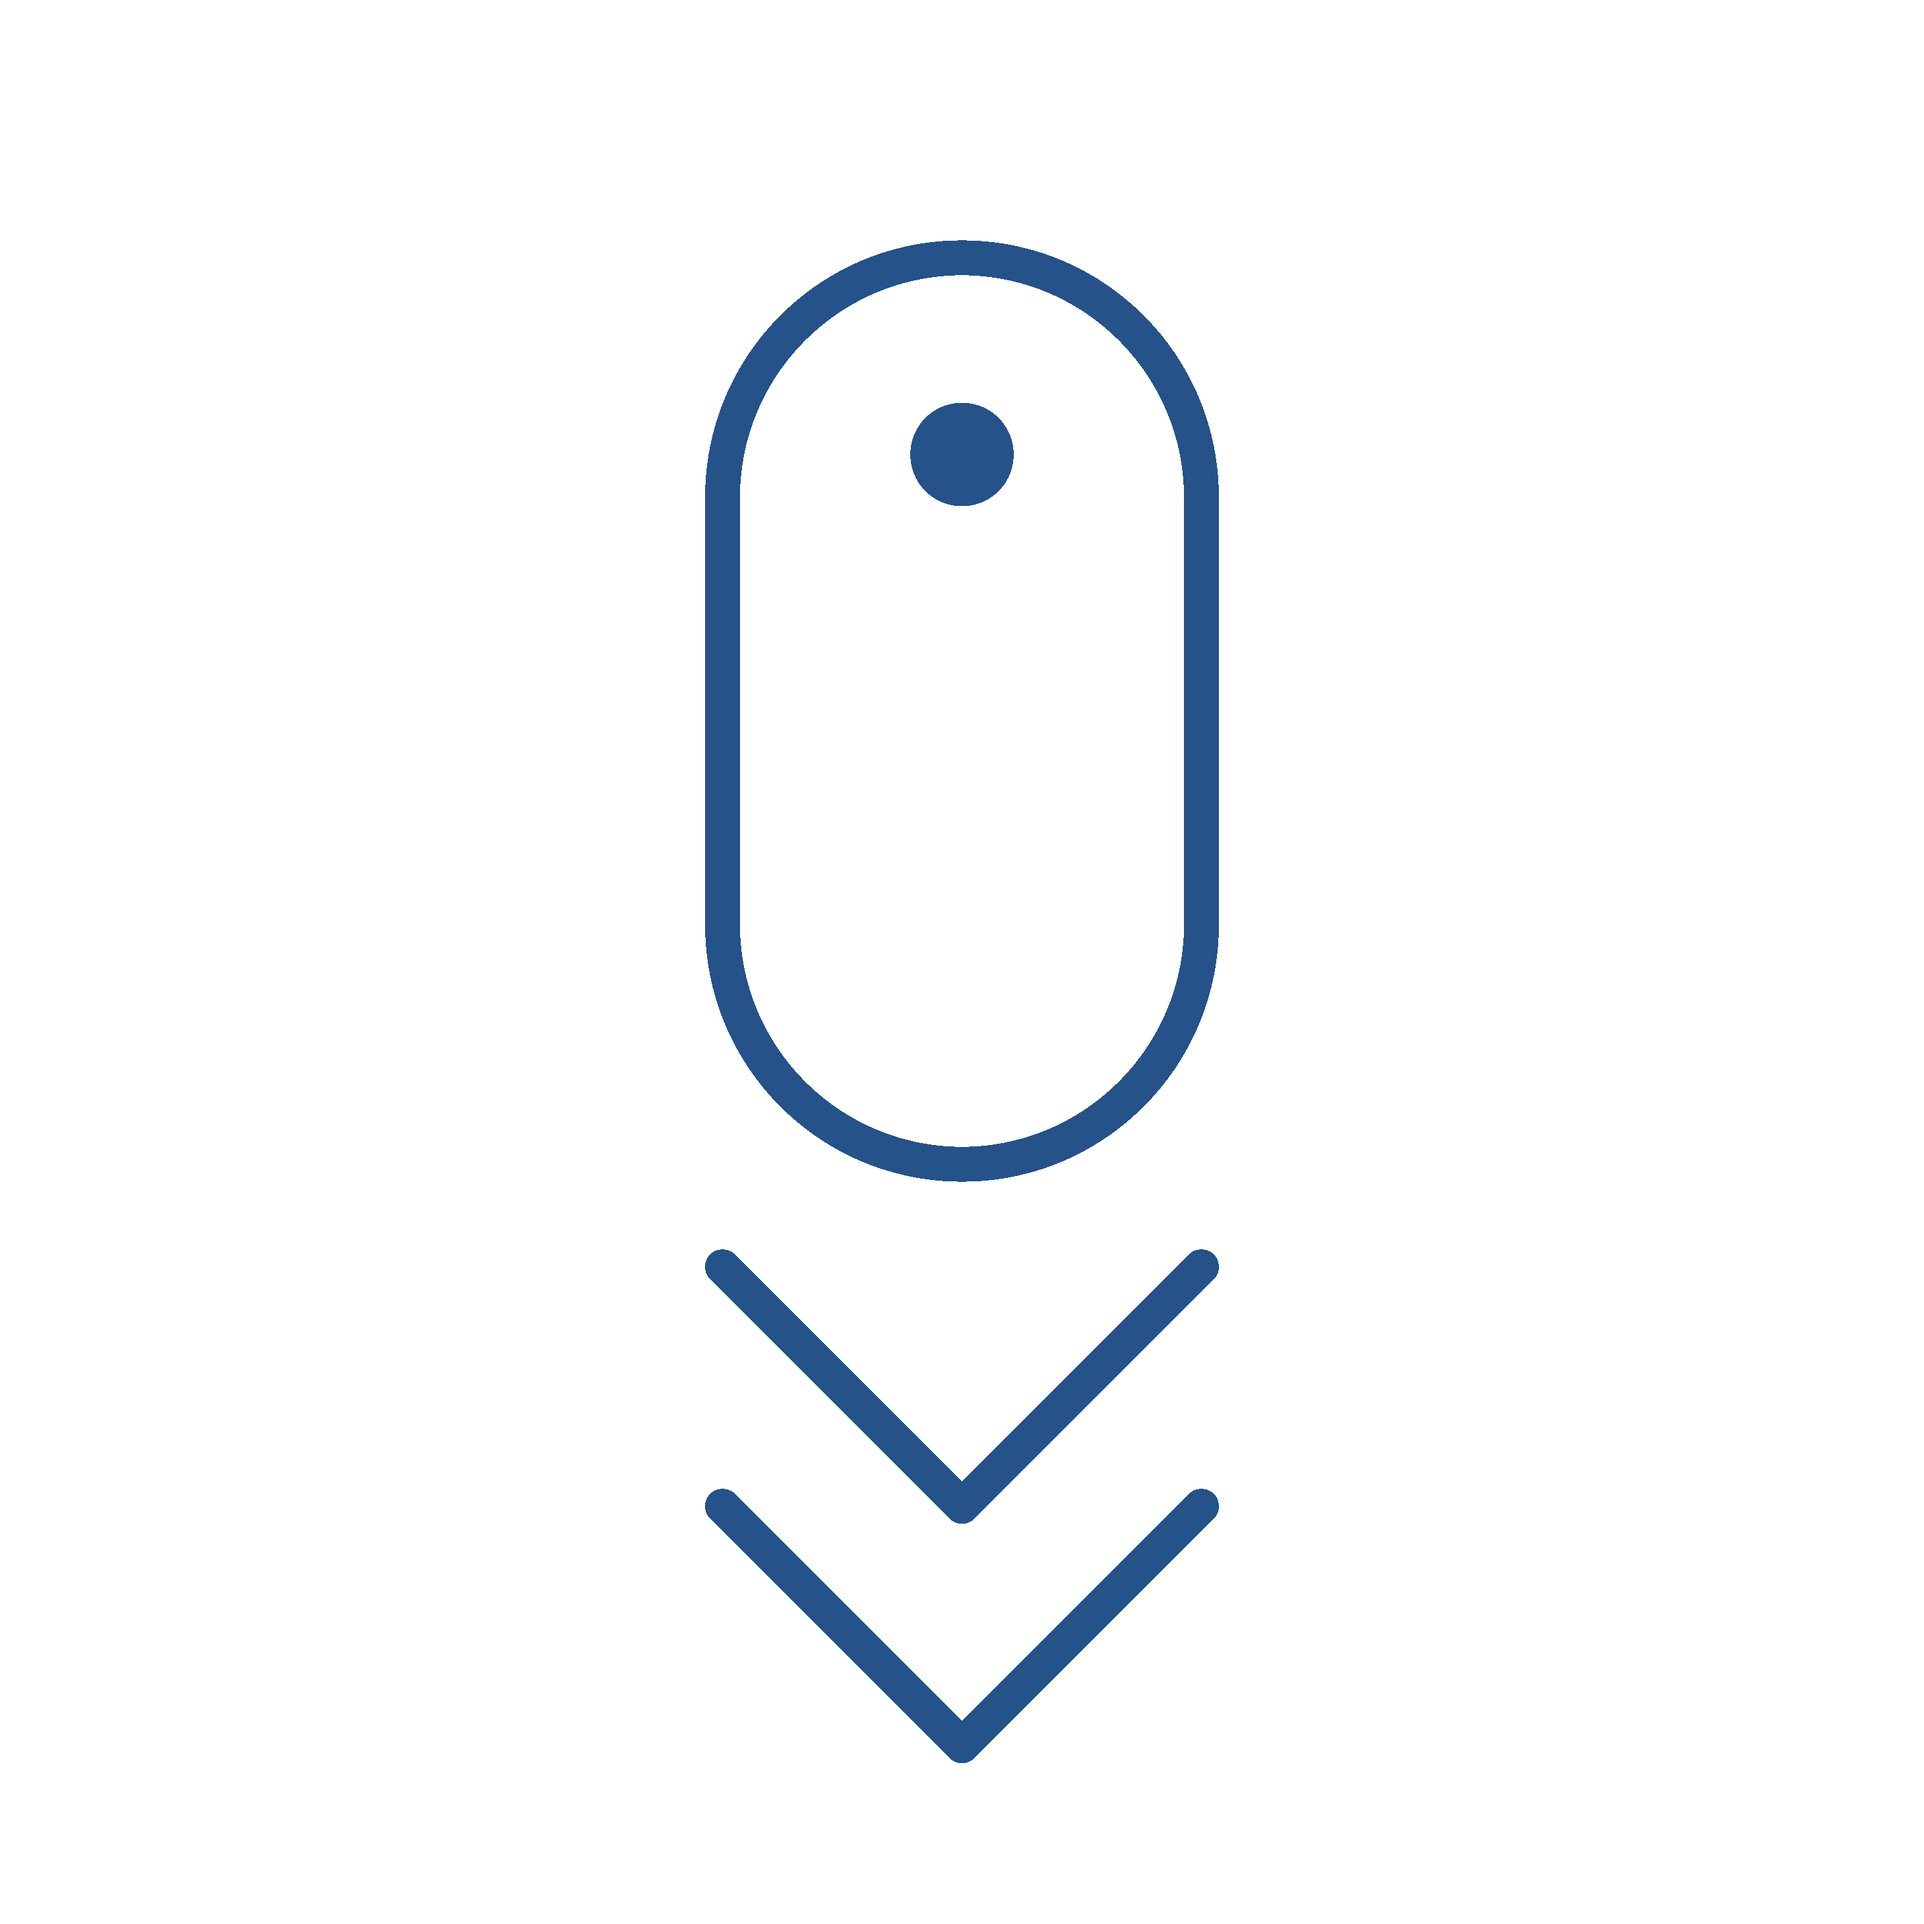
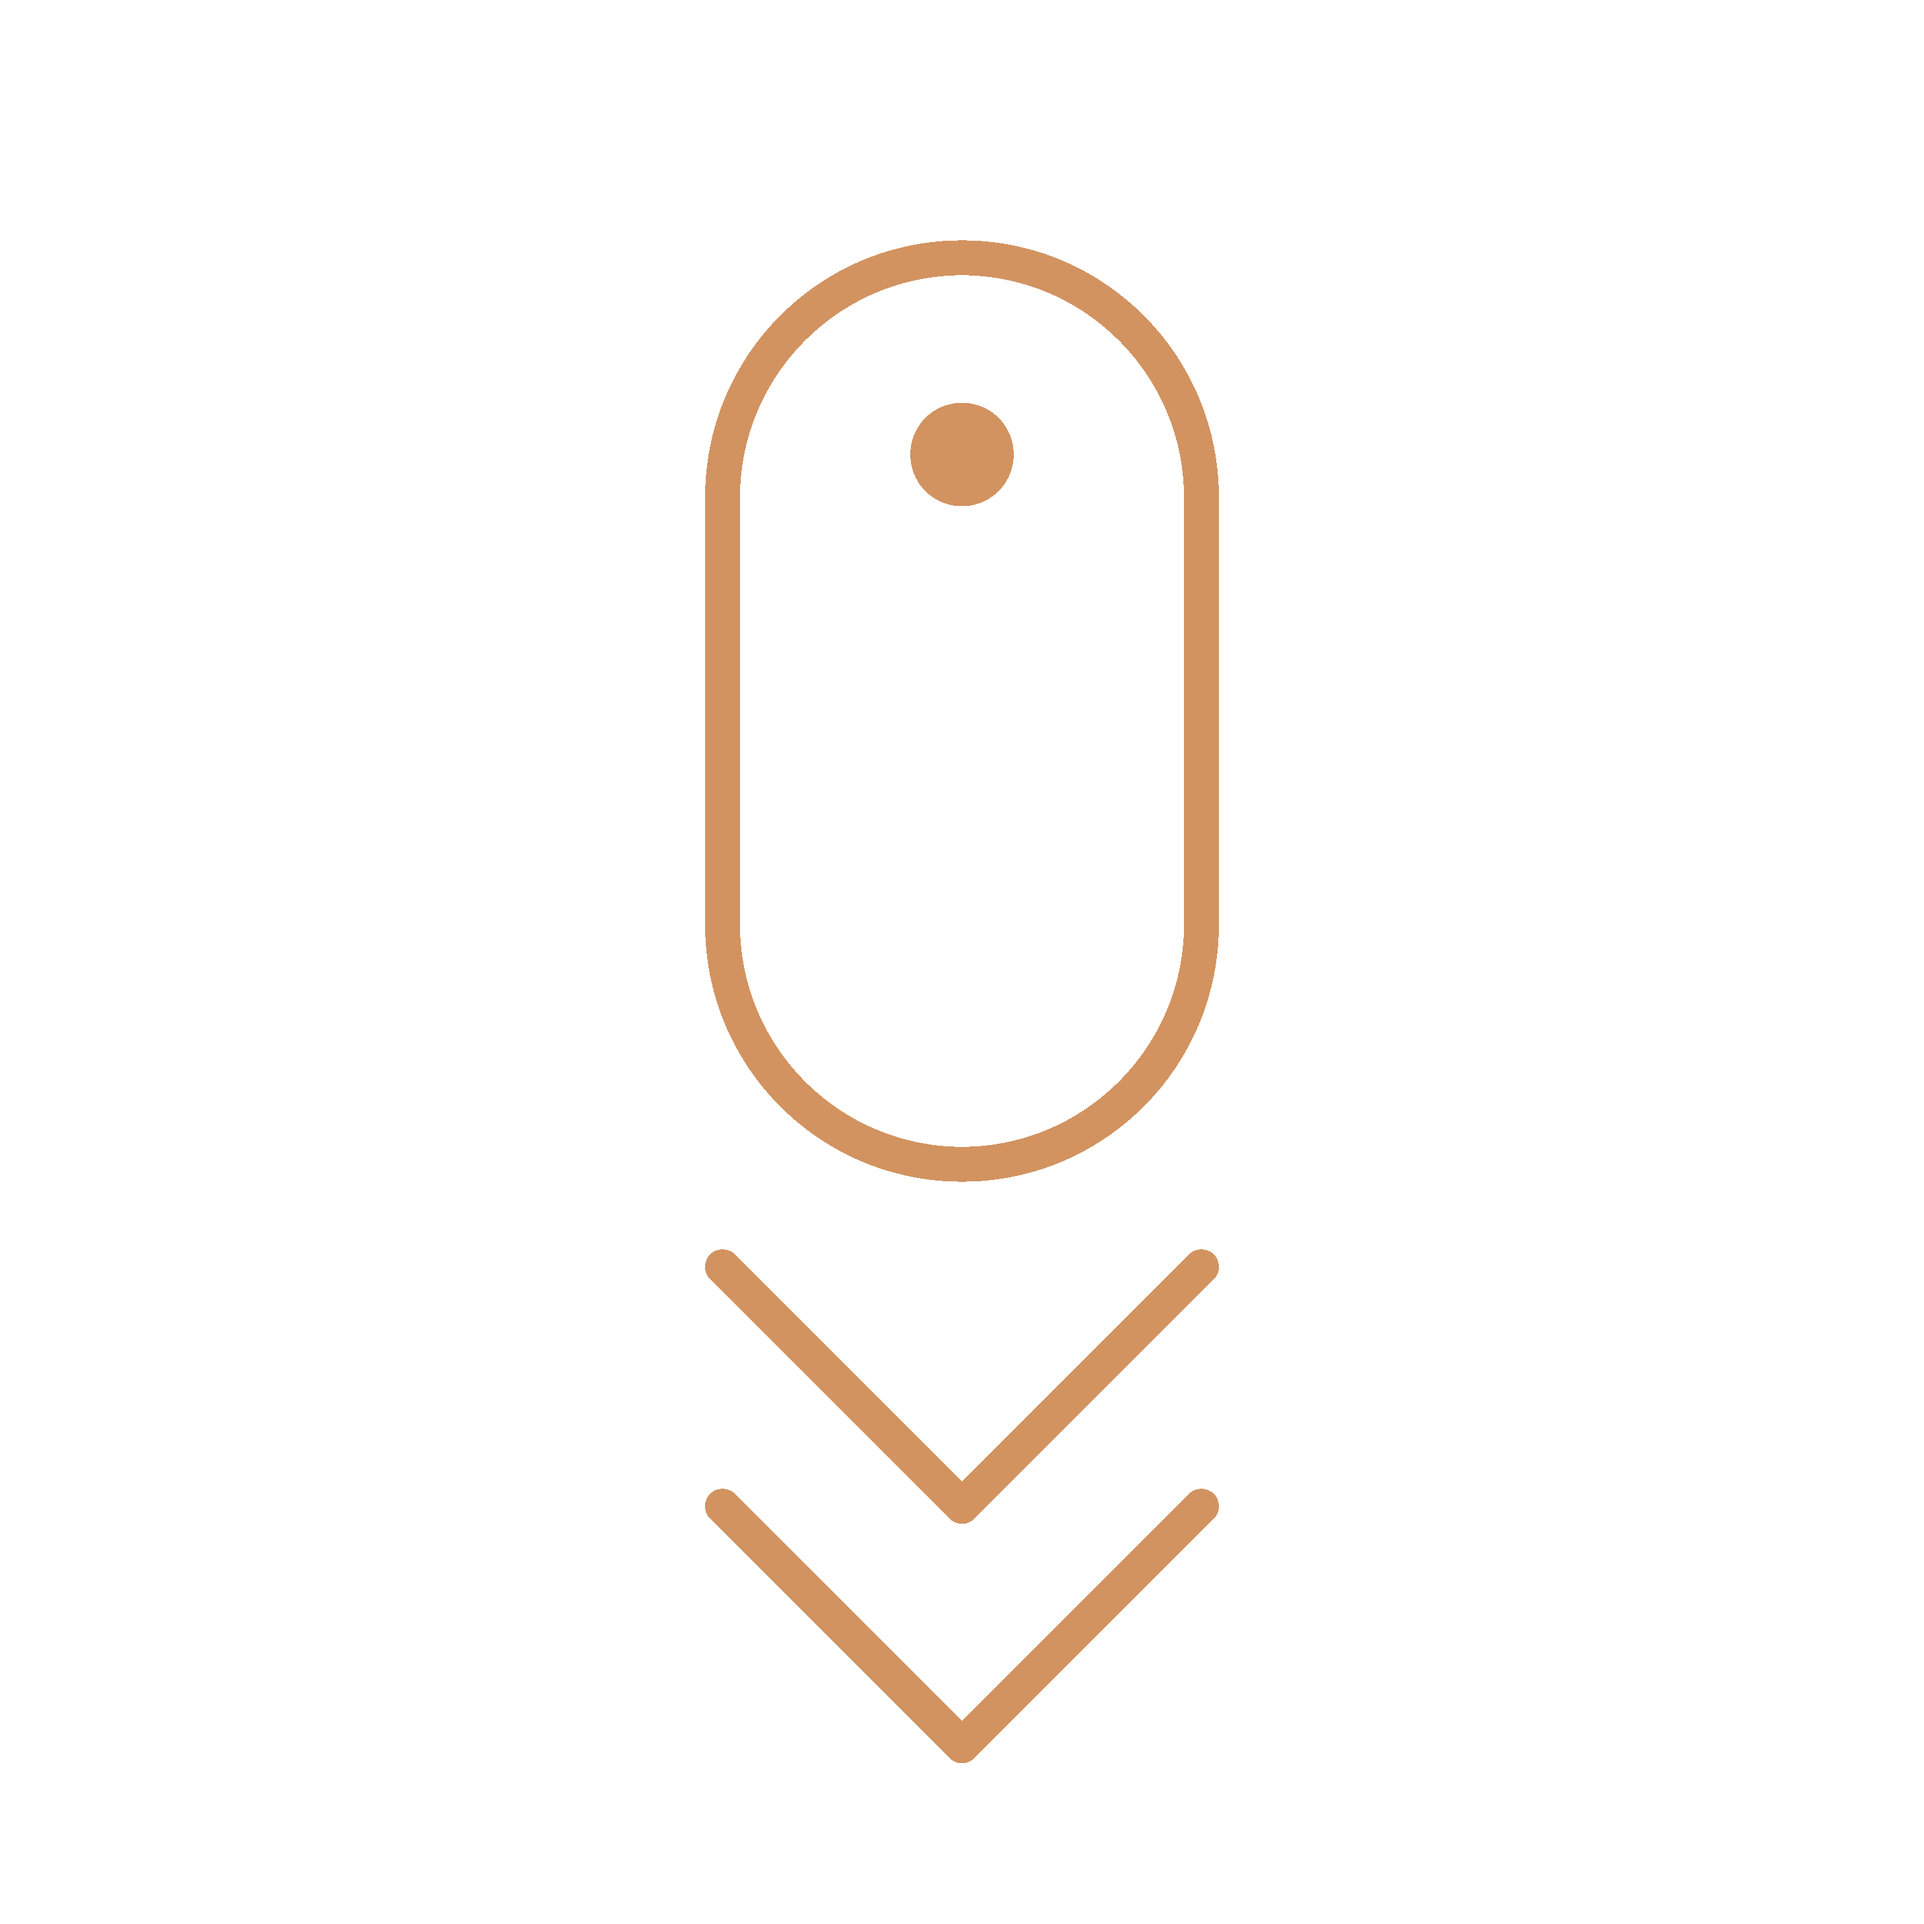
new color: box update
aa

diff --git a/style.css b/style.css
@@ -1,11 +1,10 @@
-@import url('https://fonts.googleapis.com/css2?family=Secular+One&display=swap');
+@import url('https://fonts.googleapis.com/css2?family=Montserrat:wght@700&display=swap');
 
 :root {
-    --blue: #245289;
-    --white: #fbfefe;
-    --accent: #292489;
-    --black: #091f20;
-    --font: 'Secular One', sans-serif;
+    --black: #0d0e0b;
+    --accent: #d29360;
+    font-family: 'Montserrat', sans-serif;
+    --text: #ebede8;
 }
 
 *{
@@ -29,6 +28,7 @@ a, p, h1, h2, h3, h4, h5, h6{
     display: flex;
     justify-content: center;
     align-items: center;
+    background-color: var(--black);
 }
 
 .box-center:nth-child(1){
@@ -43,7 +43,7 @@ a, p, h1, h2, h3, h4, h5, h6{
     justify-content: center;
     align-items: center;
     flex-direction: column;
-    opacity: 0.2;
+    opacity: 0.1;
     filter:grayscale();
     background-size:     cover;        
     background-repeat:   no-repeat;
@@ -79,6 +79,7 @@ a, p, h1, h2, h3, h4, h5, h6{
     justify-content: center;
     align-items: center;
     transition: 0.5s;
+    border-radius: 10px;
 }
 
 .profile-picture:hover{
@@ -94,7 +95,7 @@ a, p, h1, h2, h3, h4, h5, h6{
 }
 
 .box-paragraph{
-    color: var(--black);
+    color: var(--text);
     font-family: var(--font);
     font-size: 24px;
     text-align: left;
@@ -134,11 +135,7 @@ a, p, h1, h2, h3, h4, h5, h6{
 }
 
 .icon-item:hover .fa{
-    color: var(--white);
-}
-
-.icon-item:hover{
-    background-color: var(--accent);
+    color: var(--text);
 }
 
 .card-items{
@@ -146,21 +143,29 @@ a, p, h1, h2, h3, h4, h5, h6{
     display: flex;
     justify-content: center;
     align-items: center;
+    flex-direction: column;;
 }
 
 .card{
-    background-color: var(--accent);
-    color: var(--white);
+    background-color: transparent;
     width: 300px;
-    height: 400px;
+    height: 100px;
     margin: 50px;
-    outline: 10px solid var(--accent);
     transition: 0.5s;
-    outline-offset: -10px;
+    border-radius: 10px;
+    display: flex;
+    flex-direction: column;
+    justify-content: center;
+    align-items: center;
+    font-size: 48px;
 }
 
-.card:hover{
-    box-shadow: 0 5px 55px var(--accent);
+.title-p{
+    color: var(--text);
+}
+
+.card:hover p{
+    color: var(--accent);
 }
 
 .card:hover .card-img{
@@ -168,49 +173,11 @@ a, p, h1, h2, h3, h4, h5, h6{
     height: 75px;
 }
 
-.img-background{
-    position: relative;
-    width: 100%;
-    height: 30%;
-    background-color: var(--white);
-    display: flex;
-    justify-content: center;
-    align-items: center;
-}
-
 .card-img{
     position: relative;
     width: 20%;
     height: 63px;
     transition: 0.5s;
-}
-
-.card-title{
-    position: relative;
-    width: 100%;
-    height: 20%;
-    display: flex;
-    justify-content: center;
-    align-items: center;
-    font-size: 36px;
-    font-family: var(--font);
-}
-
-.card-p{
-    position: relative;
-    width: 100%;
-    height: 50%;
-    display: flex;
-    justify-content: center;
-    font-family: var(--font);
-    justify-content: center;
-    text-align: center;
-    font-size: 20px;
-}
-
-.card-p p{
-    padding-left: 10px;
-    padding-right: 10px;
 }
 
 .scroll-center{
@@ -228,7 +195,7 @@ a, p, h1, h2, h3, h4, h5, h6{
 .scroll-item{
     width: 40px;
     height: 70px;
-    background-color: var(--white);
+    background-color: var(--black);
     display: flex;
     justify-content: center;
     align-items: center;
@@ -240,6 +207,7 @@ a, p, h1, h2, h3, h4, h5, h6{
     width: 60px;
     height: 60px;
     cursor: pointer;
+
 }
 
 .show-scroll-button {
@@ -327,7 +295,7 @@ a, p, h1, h2, h3, h4, h5, h6{
     border: none;
     cursor: pointer;
     background-color: var(--accent);
-    color: var(--white);
+    color: var(--black);
     display: none;
     justify-content: center;
     align-items: center;
@@ -339,7 +307,7 @@ a, p, h1, h2, h3, h4, h5, h6{
   }
   
   .close-menu .fa {
-    color: var(--white);
+    color: var(--black);
   }
   
   .navbar-menu {
@@ -407,7 +375,7 @@ a, p, h1, h2, h3, h4, h5, h6{
   }
   
   .menu-item p {
-    color: var(--white);
+    color: var(--black);
     text-decoration: none !important;
     font-family: var(--font);
     font-size: 36px;

diff --git a/index.html b/index.html
@@ -100,17 +100,9 @@
 
                     <div onclick="location.href='https://www.calendjoy.com';" style="cursor:pointer;" class="card">
 
-                        <div class="img-background">
-                            <img src="calendjoy.png" alt="" class="card-img">
-                        </div>
-
-                        <div class="card-title">
-                            <p class="">Calendjoy</p>
-                        </div>
-
-                        <div class="card-p">
-                            <p class="">Calendjoy is a brand new app with calendar features. I have participated in designing the landing page and error alerts.</p>
-                        </div>
+                        
+                            <p class="title-p">Calendjoy</p>
+                        
 
                     </div>
 
